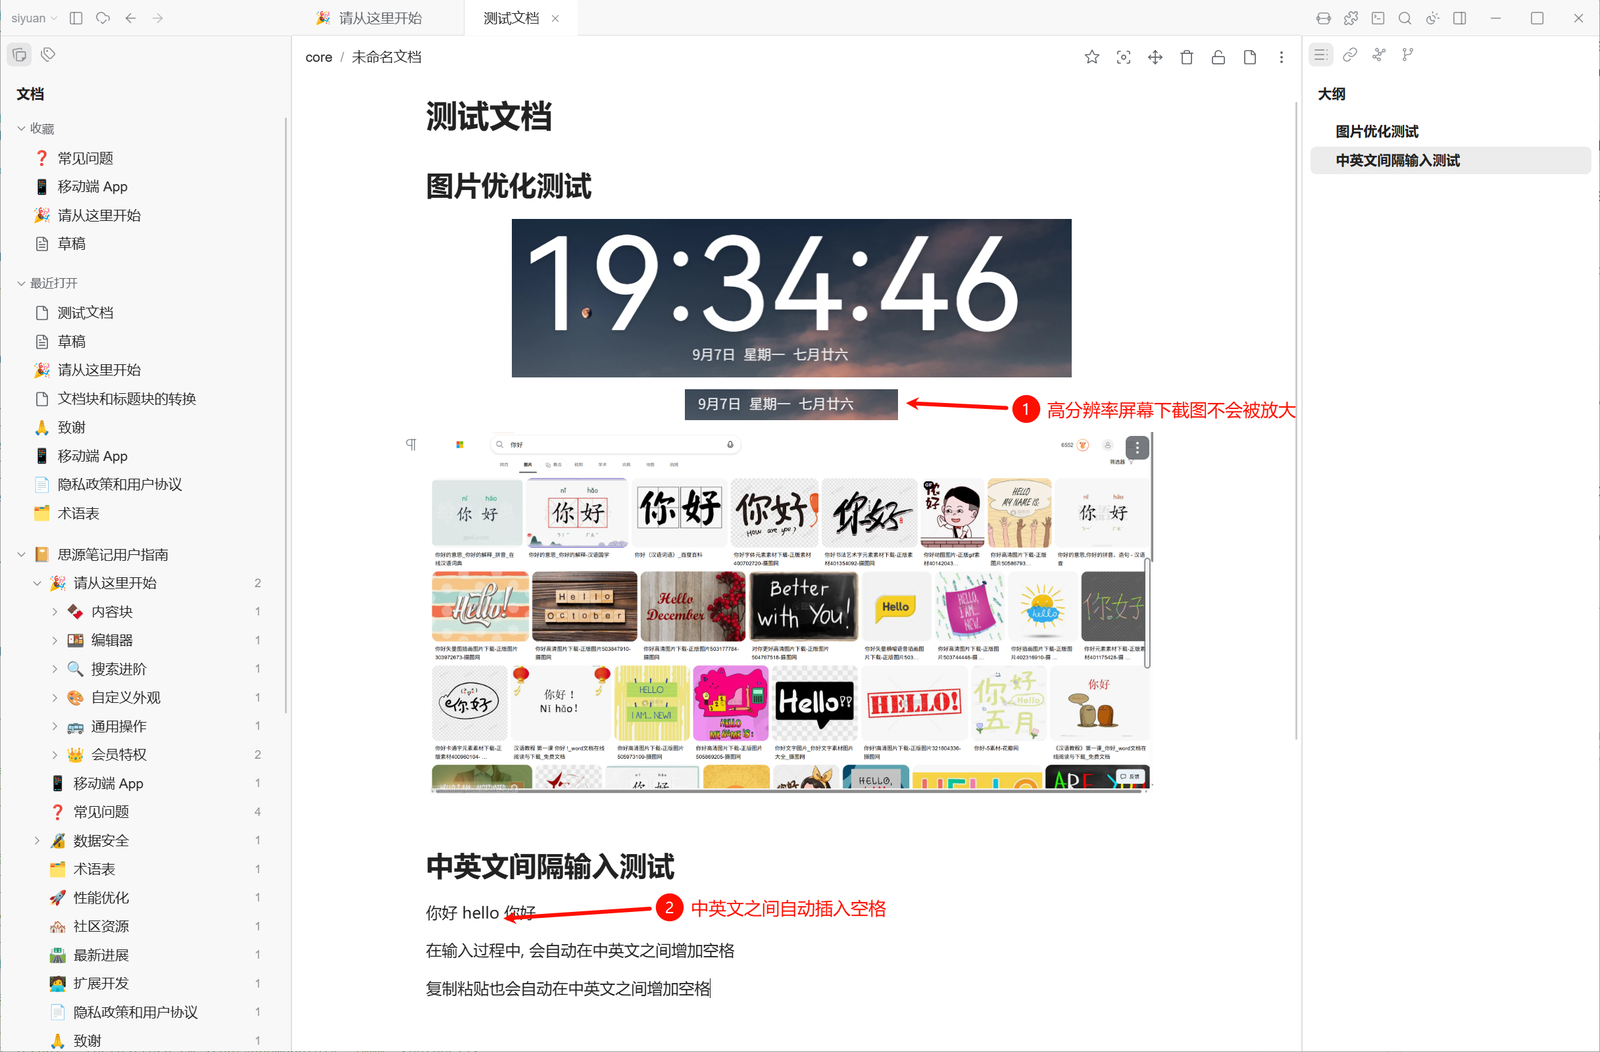
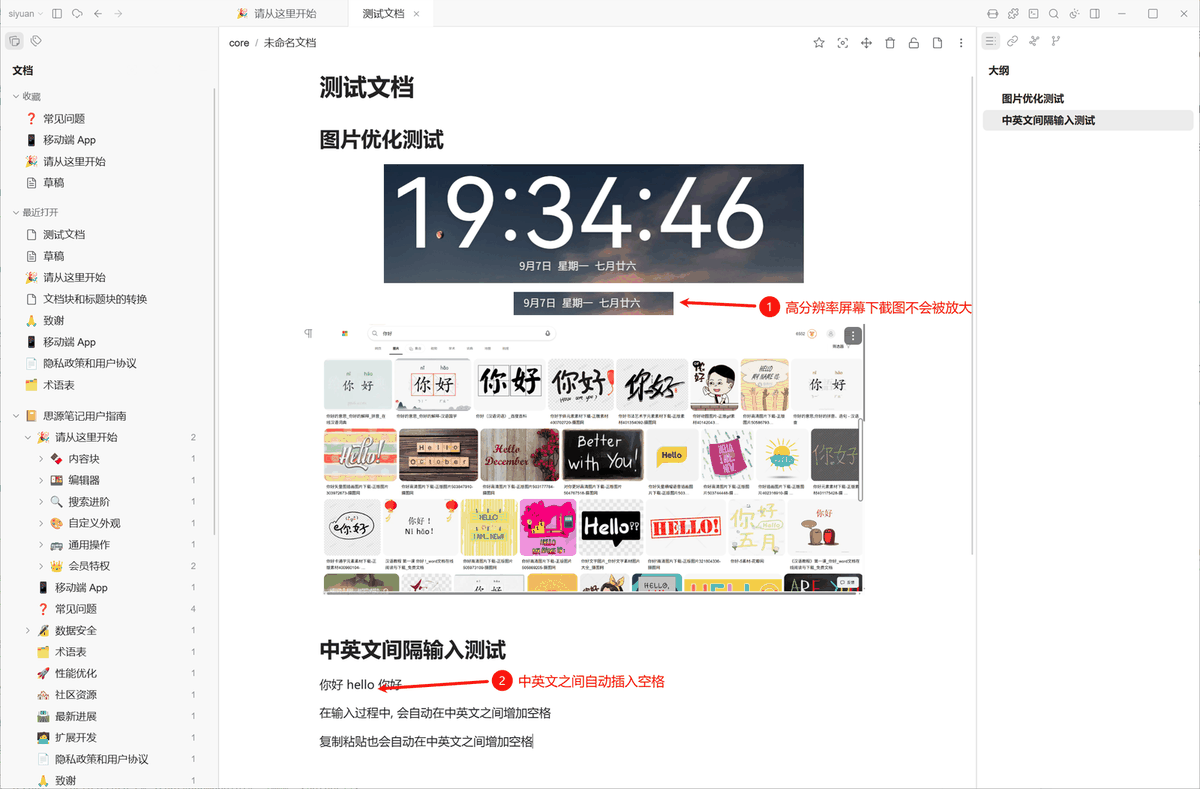
介绍开篇注明配套版本并压缩编辑体验截图

diff --git a/docs/design/2026-09-04-bazaar-release.md b/docs/design/2026-09-04-bazaar-release.md
@@ -23,6 +23,7 @@ tags: [bazaar, readme]
 | 2026-09-07 | 主题与插件共用一份用户介绍；亮色 / 暗色预览换成当前界面截图 |
 | 2026-09-07 | 用户介绍截图改到 `image/`；集市卡片仍用根目录 `preview.png` |
 | 2026-09-08 | 发布 v2.0.10：`preview.png` 改为真实 PNG，通过集市格式检查 |
+| 2026-09-08 | 用户介绍开篇注明当前匹配的主题与插件版本 |
 
 ## 背景信息
 
@@ -38,6 +39,7 @@ tags: [bazaar, readme]
 ## 当前方案
 
 - 集市详情用根目录 `README.md`（英文）与 `README_zh_CN.md`（中文），与插件介绍同一份文案；正文源在 `docs/instruction/`
+- 介绍开篇写当前匹配的主题 / 插件版本，须与 `theme.json`、配套插件 `plugin.json` 的 `version` 一致；发版改版本号时同步改这一行
 - 列表图标 `icon.png`（160×160，≤64KB）、卡片预览 `preview.png`（用亮色全界面截图，留在仓库根）；介绍正文截图在 `image/`（含亮 / 暗预览 `image/light.png`、`image/dark.png`）
 - `theme.json` 的 `name` 与文件夹 / 仓库名 `cursorart` 一致；`url` 为 GitHub 仓库地址；当前版本 `2.0.10`
 - 仓库根有 `LICENSE`（MIT）

diff --git a/docs/CHANGELOG.md b/docs/CHANGELOG.md
@@ -2,6 +2,7 @@
 
 | 时间 | 说明 |
 |------|------|
+| 2026-09-08 | 用户介绍开篇注明当前匹配的主题 v2.0.10 与插件 v1.2.8 |
 | 2026-09-08 | 发布 v2.0.10：`preview.png` 改为真实 PNG，通过集市格式检查 |
 | 2026-09-07 | 集市卡片与详情开篇改为 Cursor/Notion 风格简介，并强调插件与主题一起用 |
 | 2026-09-07 | 用户介绍末尾附主题与插件版本更新日志 |

diff --git a/README.md b/README.md
@@ -1,5 +1,7 @@
 # cursor极简
 
+Currently matched versions: theme **v2.0.10**, plugin **v1.2.8**.
+
 **Inspired by Cursor and Notion: a clean, modern layout and interaction. Adds CJK-Latin spacing, image optimization, favorites, and other highly requested features. Please use the theme and plugin together.**
 
 Theme only: no favorites, child-doc index, or config sync.

diff --git a/README_zh_CN.md b/README_zh_CN.md
@@ -1,5 +1,7 @@
 # cursor极简
 
+当前匹配版本：主题 **v2.0.10**，插件 **v1.2.8**。
+
 **参考 Cursor 和 Notion 优化布局和交互，主打简洁、现代化，提供中英文空格间隔、图片优化、收藏等呼声较高的功能。请务必插件和主题一起使用。**
 
 只装主题，没有收藏、子文档索引、配置同步等交互。

diff --git a/docs/instruction/README.md b/docs/instruction/README.md
@@ -1,5 +1,7 @@
 # cursor极简
 
+当前匹配版本：主题 **v2.0.10**，插件 **v1.2.8**。
+
 **参考 Cursor 和 Notion 优化布局和交互，主打简洁、现代化，提供中英文空格间隔、图片优化、收藏等呼声较高的功能。请务必插件和主题一起使用。**
 
 只装主题，没有收藏、子文档索引、配置同步等交互。

diff --git a/docs/instruction/README_en.md b/docs/instruction/README_en.md
@@ -1,5 +1,7 @@
 # cursor极简
 
+Currently matched versions: theme **v2.0.10**, plugin **v1.2.8**.
+
 **Inspired by Cursor and Notion: a clean, modern layout and interaction. Adds CJK-Latin spacing, image optimization, favorites, and other highly requested features. Please use the theme and plugin together.**
 
 Theme only: no favorites, child-doc index, or config sync.
